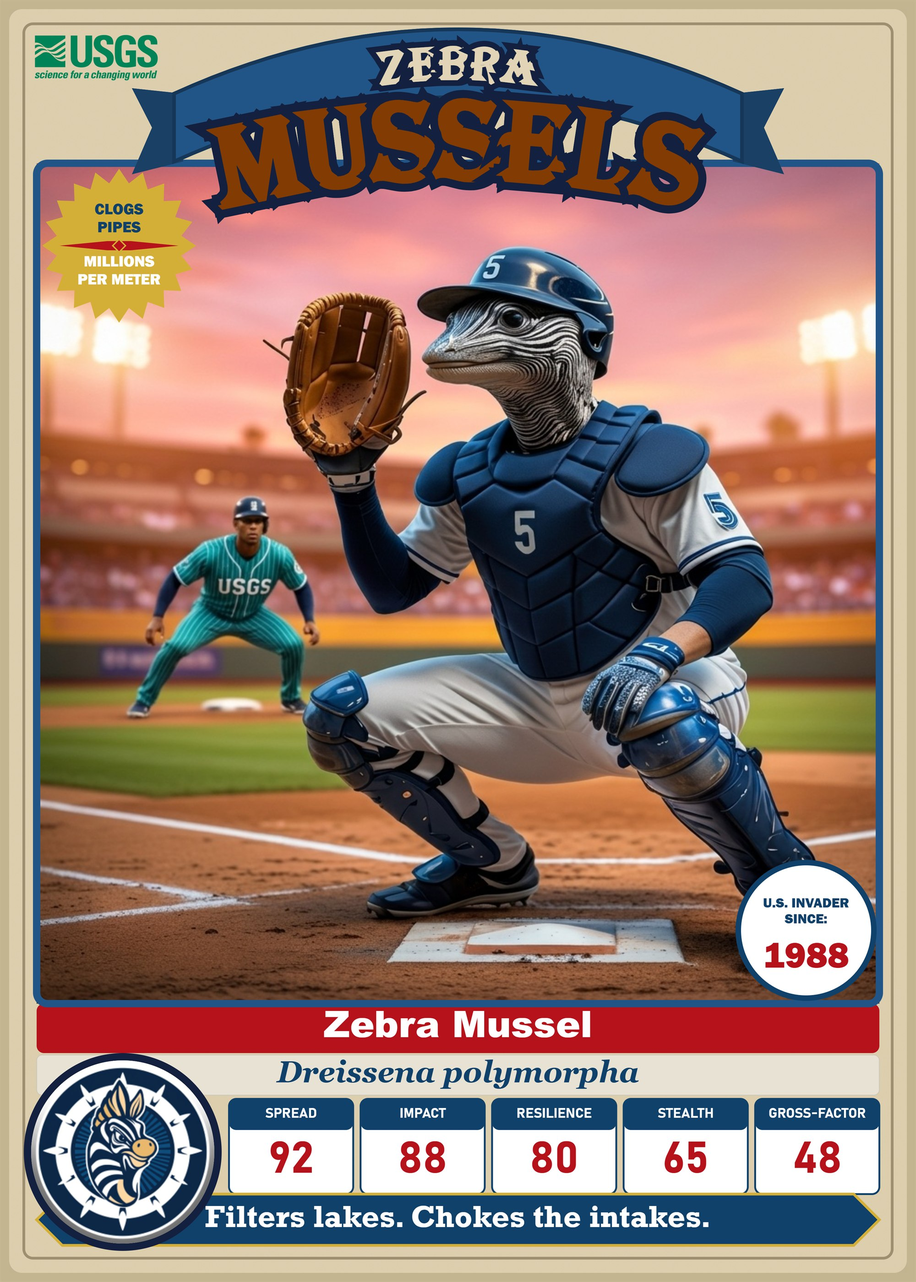
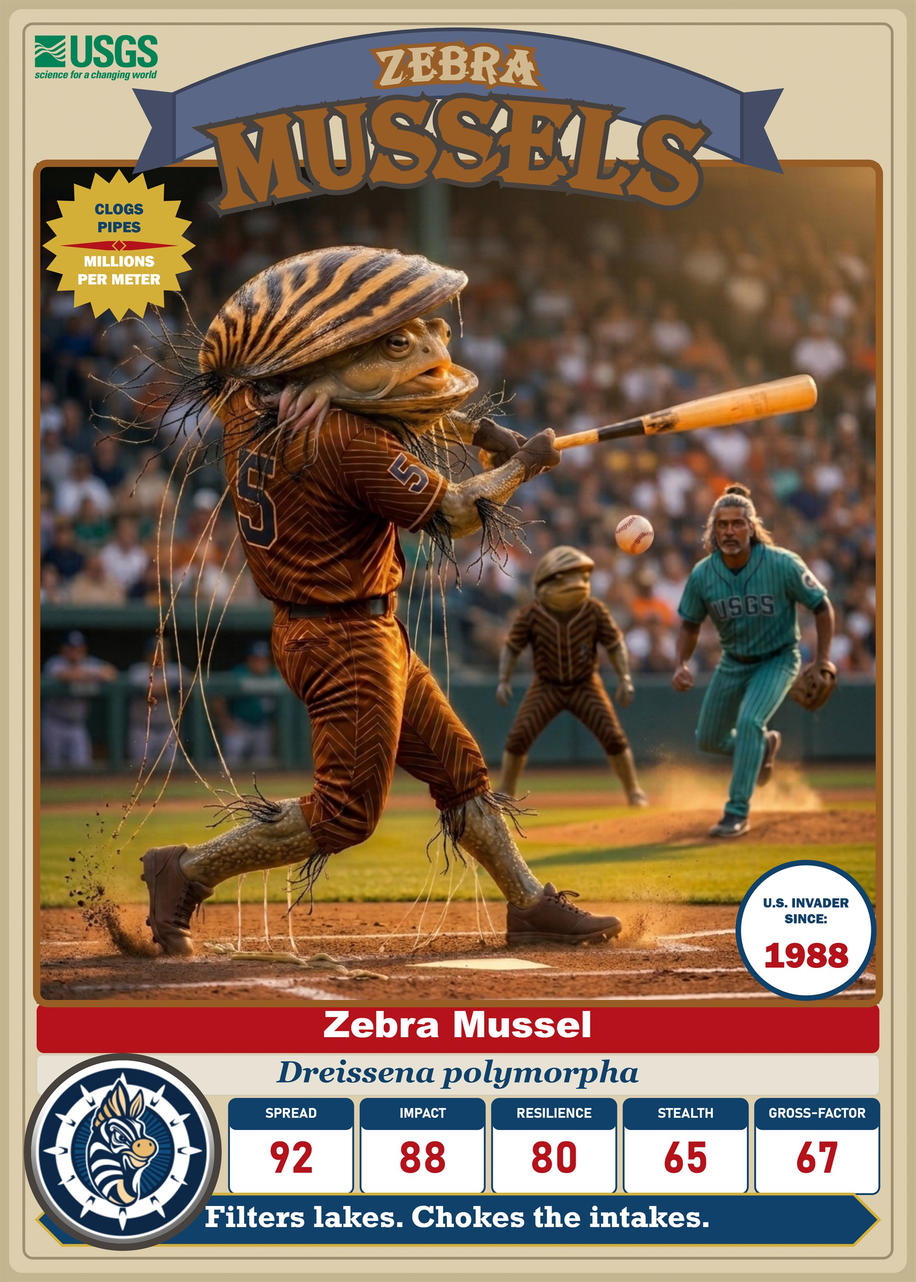
update hero images

diff --git a/data/cards.js b/data/cards.js
@@ -155,21 +155,21 @@ window.CARDS = [
         "s_impact":  "88",
         "s_resil":  "80",
         "s_stealth":  "65",
-        "s_gross":  "48",
+        "s_gross":  "67",
         "b_common":  "Zebra Mussel",
         "b_sci":  "Dreissena polymorpha",
         "b_first":  "Native to the Black, Caspian, and Azov Seas, zebra mussels likely rode in ballast water, the water ships carry for balance. Found in the Great Lakes in 1988, they now spread by boat.",
-        "b_path":  "Think you found one? Take a photo and, with an adult, report it on the USGS NAS Report a Sighting form. Clean, drain, and dry your boat and gear every time.",
+        "b_path":  "Think you found one? Take a photo and, with an adult, report it on the USGS NAS (Nonindigenous Aquatic Species Database) information system \"Report a Sighting\" form. Clean, drain, and dry your boat and gear every time.",
         "b_impacts":  "Each zebra mussel is fingernail-sized. Packed hundreds of thousands per square meter, they can squeeze a water pipe to a third of its width, and they filter out tiny food fish need.",
         "b_detect":  "Zebra mussels prompted the Nonindigenous Aquatic Species (NAS) database, now run by USGS. It is a national map-book of water invaders that tracks verified sightings and emails free alerts about new finds.",
         "b_manage":  "States run boat checks and the Fish and Wildlife Service promotes Clean, Drain, Dry. USGS gives them maps of waters a new find could reach, so crews know where to look.",
         "b_qr":  "https://nas.er.usgs.gov/queries/FactSheet.aspx?SpeciesID=5",
         "b_photo_credit":  "Photo: USGS",
         "b_map_credit":  "Map: USGS NAS, 2026 (SpeciesID=5, accessed 11/6/2026)",
-        "colMain1":  "#225587",
-        "colMain2":  "#13203f",
-        "colAcc1":  "#823b02",
-        "colAcc2":  "#e2d4b6"
+        "colMain1":  "#985c25",
+        "colMain2":  "#47423e",
+        "colAcc1":  "#5a6787",
+        "colAcc2":  "#d0b890"
     },
     {
         "num":  6,
@@ -227,10 +227,10 @@ window.CARDS = [
         "b_common":  "Silver Carp",
         "b_sci":  "Hypophthalmichthys molitrix",
         "b_first":  "Silver carp come from eastern Asia. Fish farmers imported them in the 1970s to clean ponds of algae. They escaped and spread through the Mississippi, Missouri, and Illinois river systems.",
-        "b_path":  "Never touch or chase a suspected carp. Photograph it and, with an adult, send to USGS NAS Report a Sighting (nas.er.usgs.gov). Never move live bait between waters, since young carp resemble baitfish.",
-        "b_impacts":  "Silver carp can weigh 20 pounds and leap 10 feet when a boat motor startles them, sometimes even colliding with and hurting boaters. They also compete with native fish and mussels for plankton (tiny drifting plants and animals).",
-        "b_detect":  "USGS scientists tag carp with sound-emitting transmitters and track them past dams. They also test water for carp eDNA, tiny bits of DNA that organisms leave in the water, as evidence to help determine if they are present.",
-        "b_manage":  "States net carp, and partners such as the Army Corps use electric, sound, and CO2 barriers to keep them from moving further. USGS gives them tracking data showing which dams carp pass, so they can choose where to act.",
+        "b_path":  "Never touch or chase a suspected carp. Photograph it and, with an adult, send USGS NAS Report a Sighting (nas.er.usgs.gov). Never move live bait between waters, since young carp resemble baitfish.",
+        "b_impacts":  "Silver carp can weigh 20 pounds and leap 10 feet when a boat motor startles them, hurting boaters. They also compete with native fish and mussels for plankton (tiny drifting plants and animals).",
+        "b_detect":  "USGS scientists tag carp with sound-emitting transmitters and track them past dams. They also test water for eDNA, tiny bits of DNA that organisms leave behind, as a clue to look closer for new spread.",
+        "b_manage":  "States net carp, and partners such as the Army Corps use electric, sound, and CO2 barriers. USGS gives them tracking data showing which dams carp pass, so they can choose where to act.",
         "b_qr":  "https://www.usgs.gov/labs/columbia-river-research-laboratory/science/asian-carp-hypophthalmichthys-spp-crrl",
         "b_photo_credit":  "Photo: USGS",
         "b_map_credit":  "Map: USGS NAS, 2026 (SpeciesID accessed 11/6/2026)",
@@ -366,12 +366,12 @@ window.CARDS = [
         "b_path":  "Lampreys already live in every Great Lake. Found one elsewhere? Photograph it from a safe distance and, with an adult, send USGS NAS Report a Sighting. Some native lampreys are harmless, so clear photos matter.",
         "b_impacts":  "A sea lamprey clamps on with a sucker mouth of sharp teeth and drinks fish blood. Just one can kill about 40 pounds of fish, and lampreys helped collapse Great Lakes fisheries.",
         "b_detect":  "Lampreys leave round wounds on fish, and traps count adults. USGS scientists analyzed decades of both. When treatments slipped between 2020-22, adult lamprey numbers rose across lakes.",
-        "b_manage":  "The Great Lakes Fishery Commission leads control. Partners apply lampricide, a chemical that kills larvae (baby-stage lampreys), and run traps. USGS tests the tools, including a scent bait that lures females.",
+        "b_manage":  "The Greal Lakes Fishery Commission leads control. Partners apply lampricide, a chemical that kills larvae (young lamprey), and runs traps. USGS helps by developing tools, including the Upper Midwest Environmental Sciences Center that developed a scent bait that lures females and a lampricide (a chemical that specifically targets lamprey larvae before they develop into parasitic adults).",
         "b_qr":  "https://www.usgs.gov/publications/invasive-species-control-and-management-sea-lamprey-story",
         "b_photo_credit":  "Photos: USGS",
         "b_map_credit":  "Map: USGS NAS, 2026 (accessed 11/6/2026); Great Lakes Fishery Commission",
         "colMain1":  "#6e1414",
-        "colMain2":  "#b39e32",
+        "colMain2":  "#e2c94b",
         "colAcc1":  "#71726c",
         "colAcc2":  "#210403"
     },
@@ -397,9 +397,9 @@ window.CARDS = [
         "b_common":  "Bighead Carp",
         "b_sci":  "Hypophthalmichthys nobilis",
         "b_first":  "Native to big rivers of eastern Asia, bighead carp came to U.S. fish farms in 1973 to help clean ponds. Fish escaped and spread through the Mississippi, Missouri, and Illinois basins.",
-        "b_path":  "With an adult, report a sighting to USGS NAS with a photo, place, and date. If you catch one, never release it or move it to another location. Freeze it and tell your state wildlife agency.",
+        "b_path":  "With an adult, report a sighting to USGS NAS with a photo, place, and date. If you catch one, never release it or move it. Freeze it and tell your state wildlife agency.",
         "b_impacts":  "A bighead carp has no true stomach, so it filters tiny plankton almost nonstop. Native paddlefish, buffalo, and shad need that same food, and young fish do too.",
-        "b_detect":  "Carp leave eDNA, tiny bits of DNA shed into the water, and USGS tests river samples for it. USGS also tags carp with transmitters, and in some places underwater receivers alert managers when one swims past.",
+        "b_detect":  "Carp shed eDNA, tiny bits of DNA, into the water, and USGS tests river samples for it. A hit is a clue to look closer. USGS also tags carp with transmitters, and underwater receivers alert managers when one swims past.",
         "b_manage":  "Army Corps and state teams use electric, sound, and CO2 barriers and targeted harvest. USGS gives them carp movement data and population models so they can place deterrents and set removal goals.",
         "b_qr":  "https://nas.er.usgs.gov/queries/factsheet.aspx?SpeciesID=551",
         "b_photo_credit":  "Photo: USGS",
